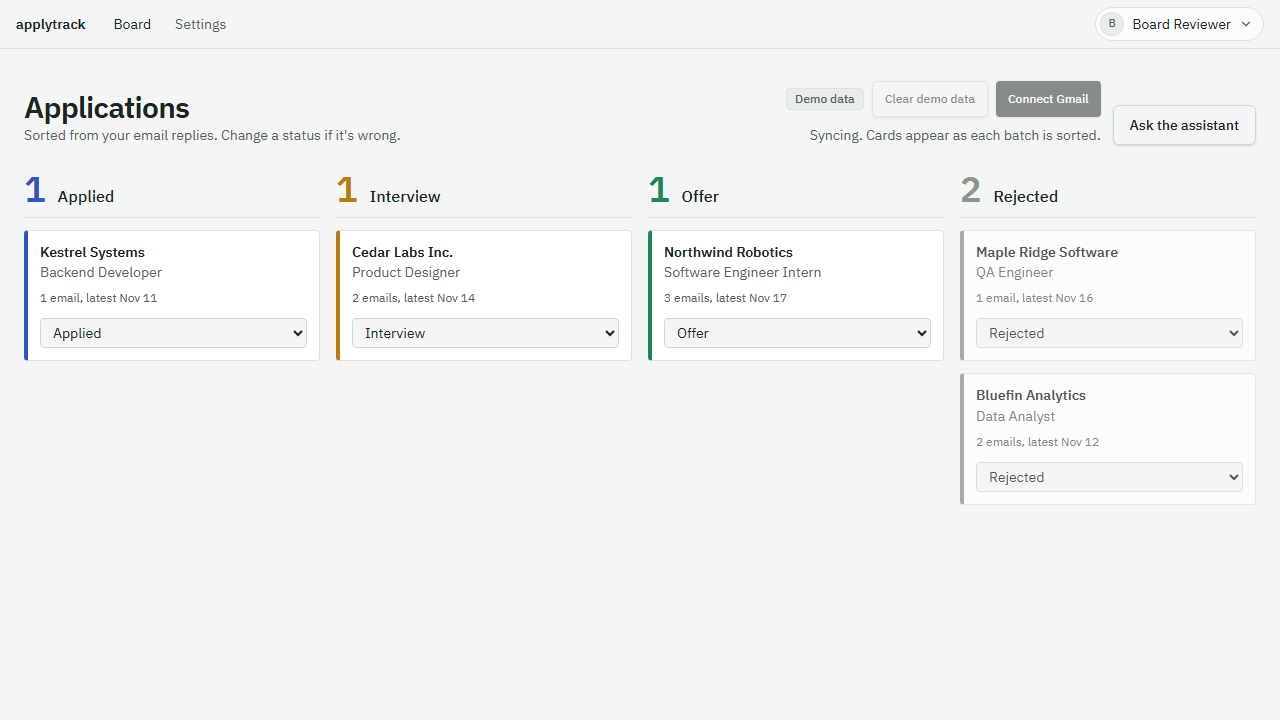
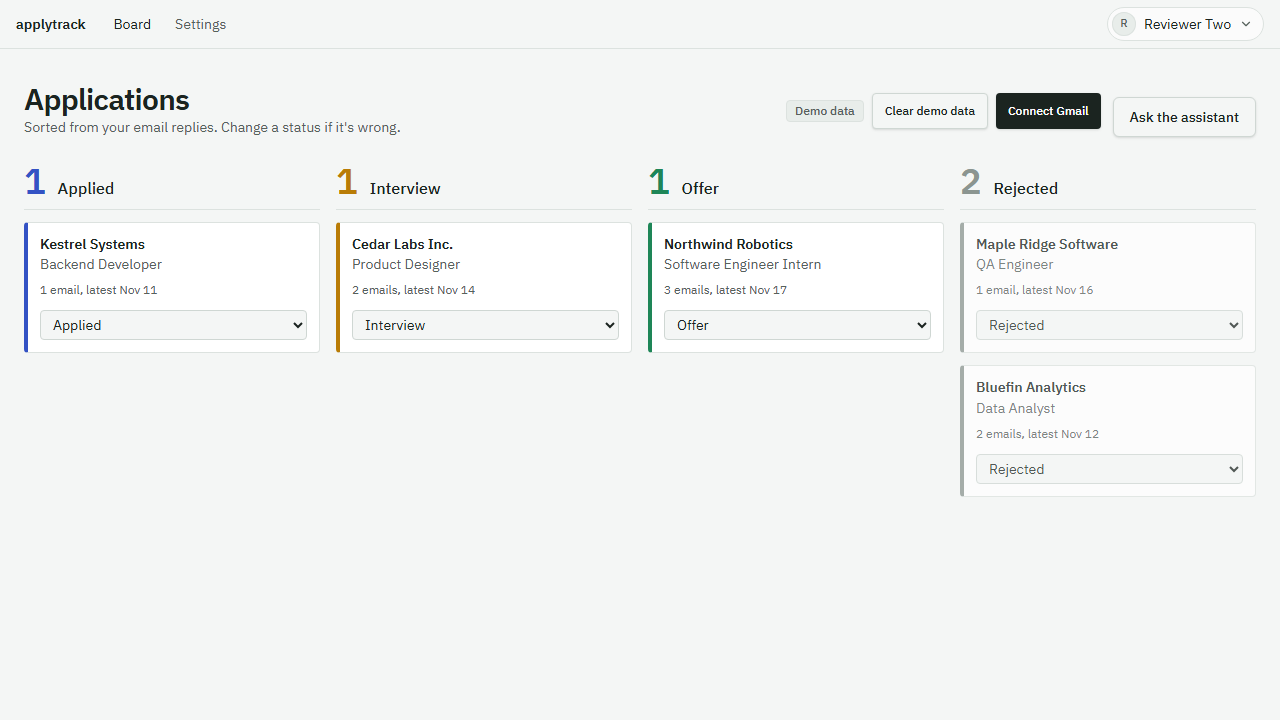
README screenshot: retake on a settled demo board
Sync finished, buttons enabled, all five demo cards in their final lanes.
Reviewer Two test account; demo data only, no real names or emails; 1280x720, 41 KB.

diff --git a/AGENT_LOG.md b/AGENT_LOG.md
@@ -916,4 +916,6 @@ Plus at most one summarizer call per message once history passes 30,000 characte
 
 **Done:** copied `.deepspace/test-results/board-first-run-…/board.png` (from `tests/board.spec.ts`).
 - Checked by viewing it: only the five fictional demo companies with the "Demo data" label; the account chip shows the test account name "Board Reviewer", and no email appears; 1280×720, 43 KB.
-- **Cosmetic:** it was captured as the demo sync finished, so the status line reads "Syncing. Cards appear as each batch is sorted." and the buttons are greyed out. The user may want to re-take it later.
+- **Cosmetic:** it was captured as the demo sync finished, so the status line read "Syncing. Cards appear as each batch is sorted." and the buttons were greyed out.
+
+**Retaken (the user's request):** a temporary spec (deleted after use) on the local dev server, signed in as the Reviewer Two test account, whose demo board was already loaded, so no new sync and no AI cost. Before the shot it waited for all five cards in their final lanes, a sync status without "Syncing", and enabled **Clear demo data**, **Connect Gmail** and **Ask the assistant** buttons, then moved the mouse away. Checked by viewing it: only the five fictional demo companies with the "Demo data" label; the account chip shows "Reviewer Two" and no email appears; 1280×720, 41 KB.
